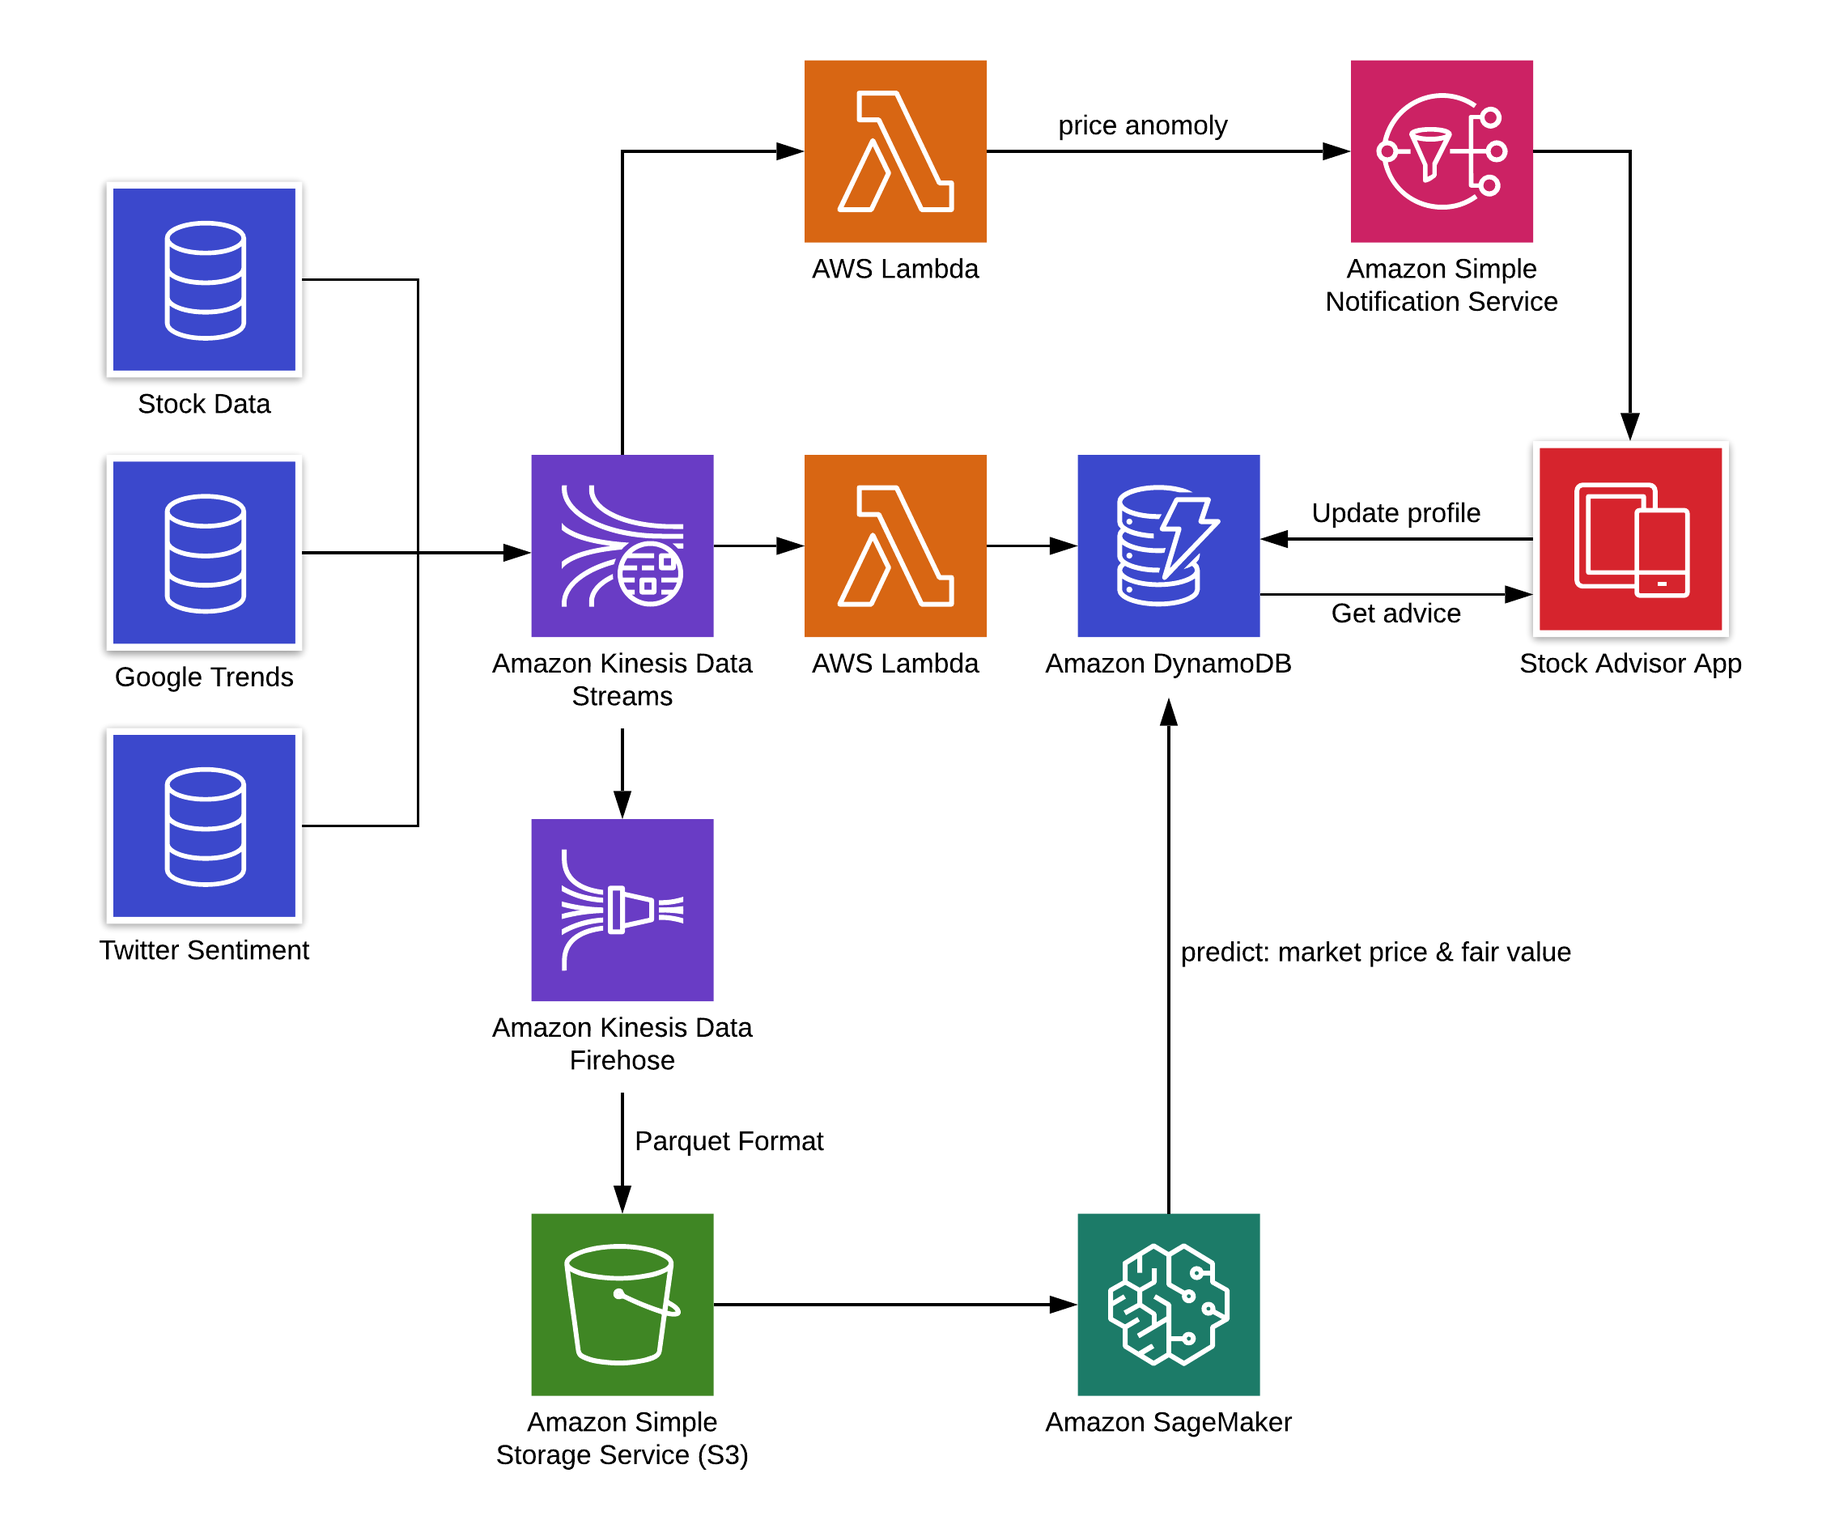
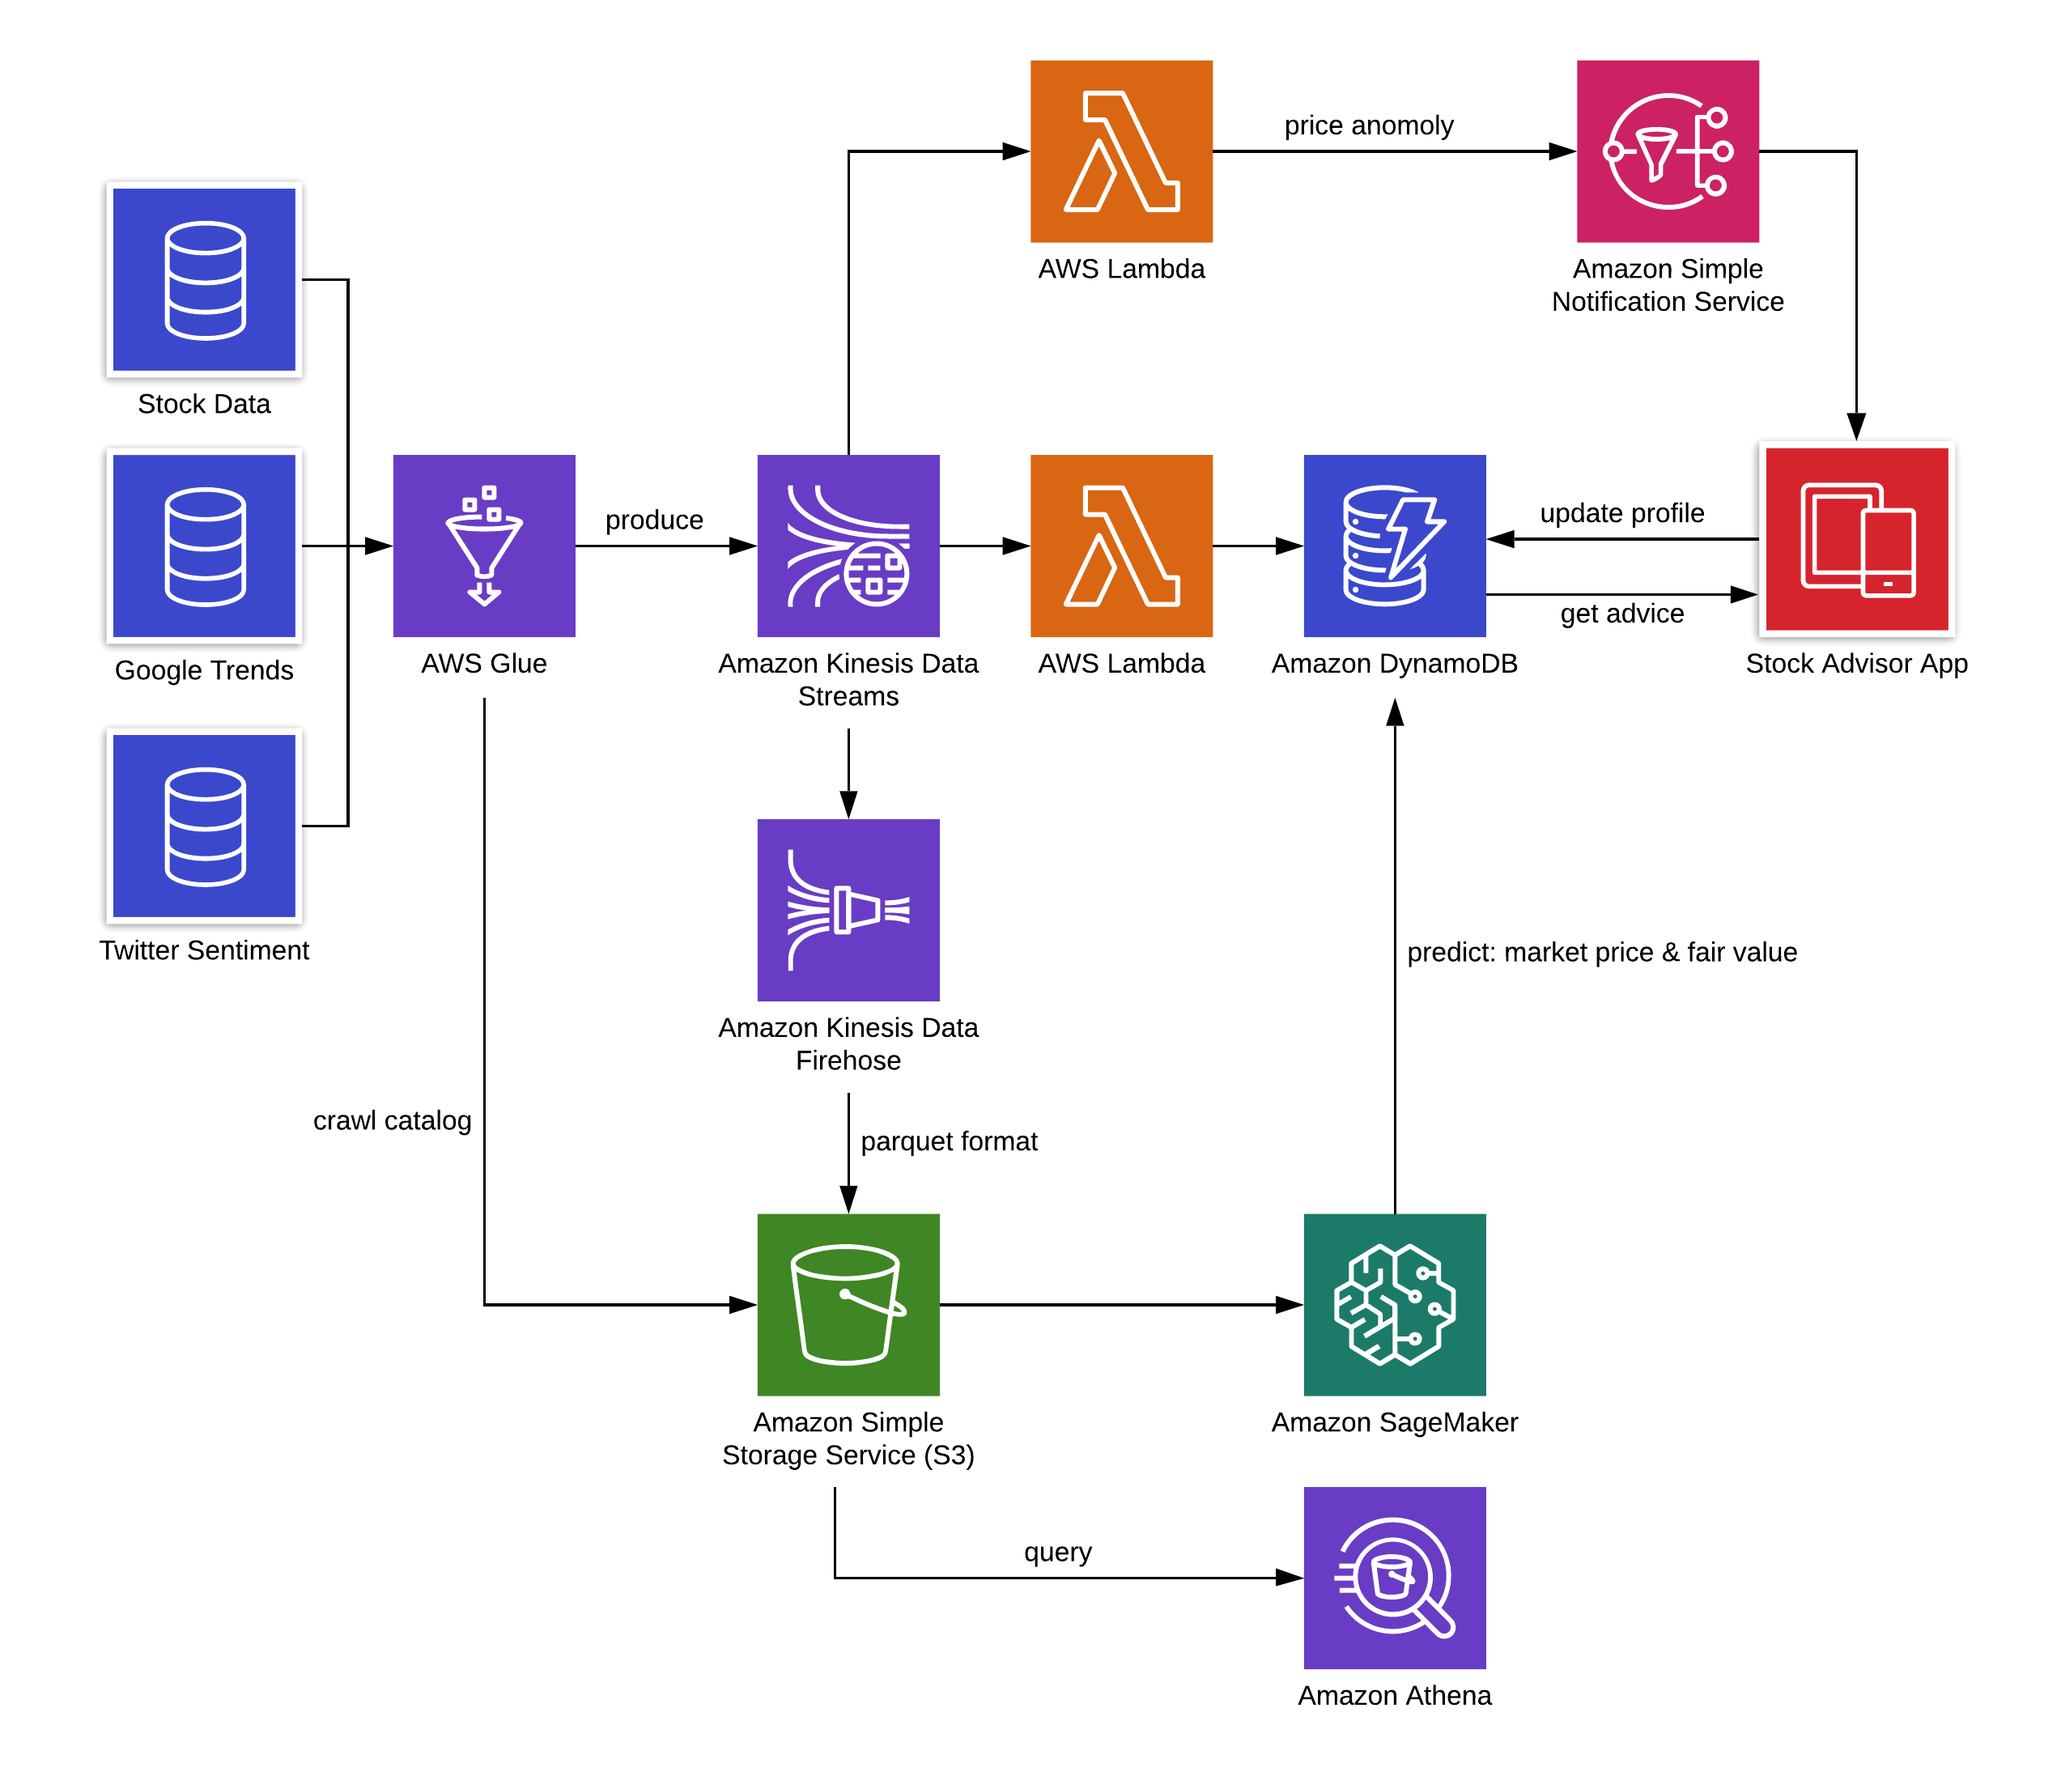
Updated to poll and produce events for the stream

diff --git a/README.md b/README.md
@@ -3,12 +3,12 @@ A stock portfolio advisor. Missing stock buying opportunities is easy when you'r
 
 NOTE: Very much a work and progress and mostly to practice using the target technologies.
 
-##Data Sources
+## Data Sources
 * Stock price data
 * Twitter sentiment
 * Google trends
 
-##Features
+## Features
 * Provides daily advice each morning on stocks to buy or sell.
 * Sends realtime alert when prices jump quickly
 * Predicts the fair value for a stock based on:
@@ -20,15 +20,25 @@ NOTE: Very much a work and progress and mostly to practice using the target tech
     * Past history
 * Shows metrics such as rolling averages, PE ratio, ect...
 
-##Draft Architecture
+## Draft Architecture
 ![High Level](/stonks-high-level-architecture.png?raw=true "High Level Architecture")
 
-##Target Technologies
+## Target Technologies
 * Terraform for infrastructure setup (AWS)
-    * Kinesis Data Streams (realtime)
-    * Kinesis Firehose (store as Parquet in S3)
-    * S3 (raw data lake)
-    * DynamoDB (recent hot data)
-    * SageMaker (modeling, training, predictions)
+    * Glue 
+        * API poll/produce events **This may need to be EMR or EC2 (to produce events quickly)
+        * Crawl S3 for data catalog
+    * Kinesis Data Streams
+        * realtime to multiple consumers
+    * Kinesis Firehose
+        * store as Parquet in S3
+    * S3
+        * raw data lake
+    * DynamoDB
+        * recent hot data, and user config for app
+    * SageMaker
+        * modeling, training, predictions
+    * Athena 
+        * big data query support 
 * Python backend
 * Kotlin Native frontend: web, android, ios
